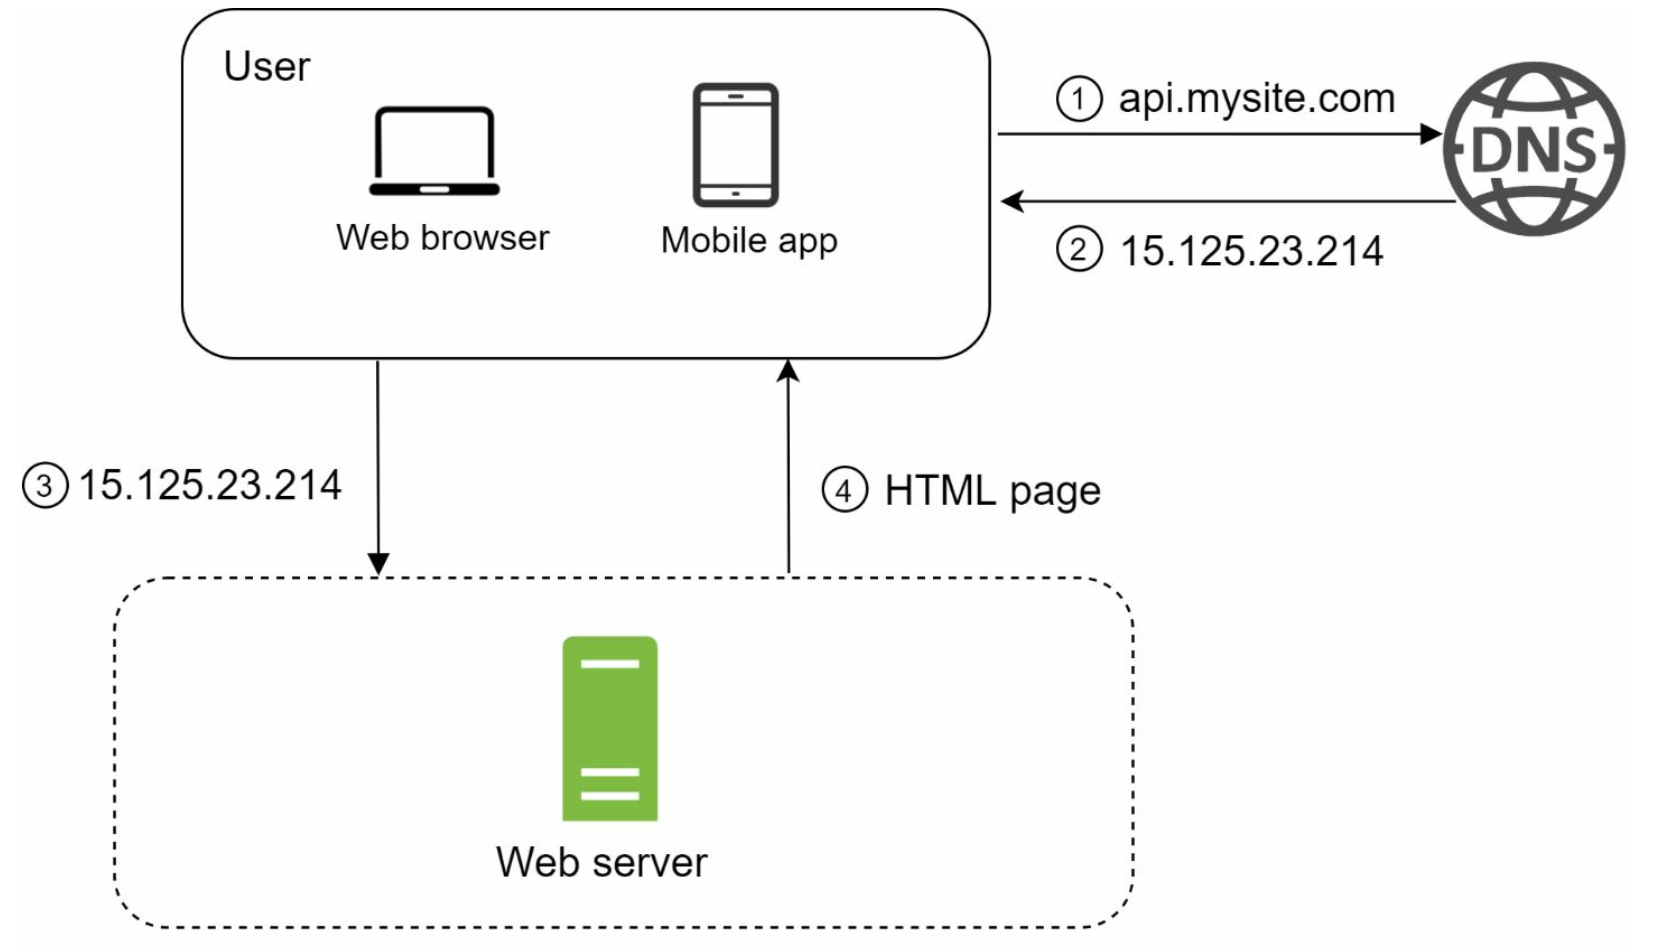
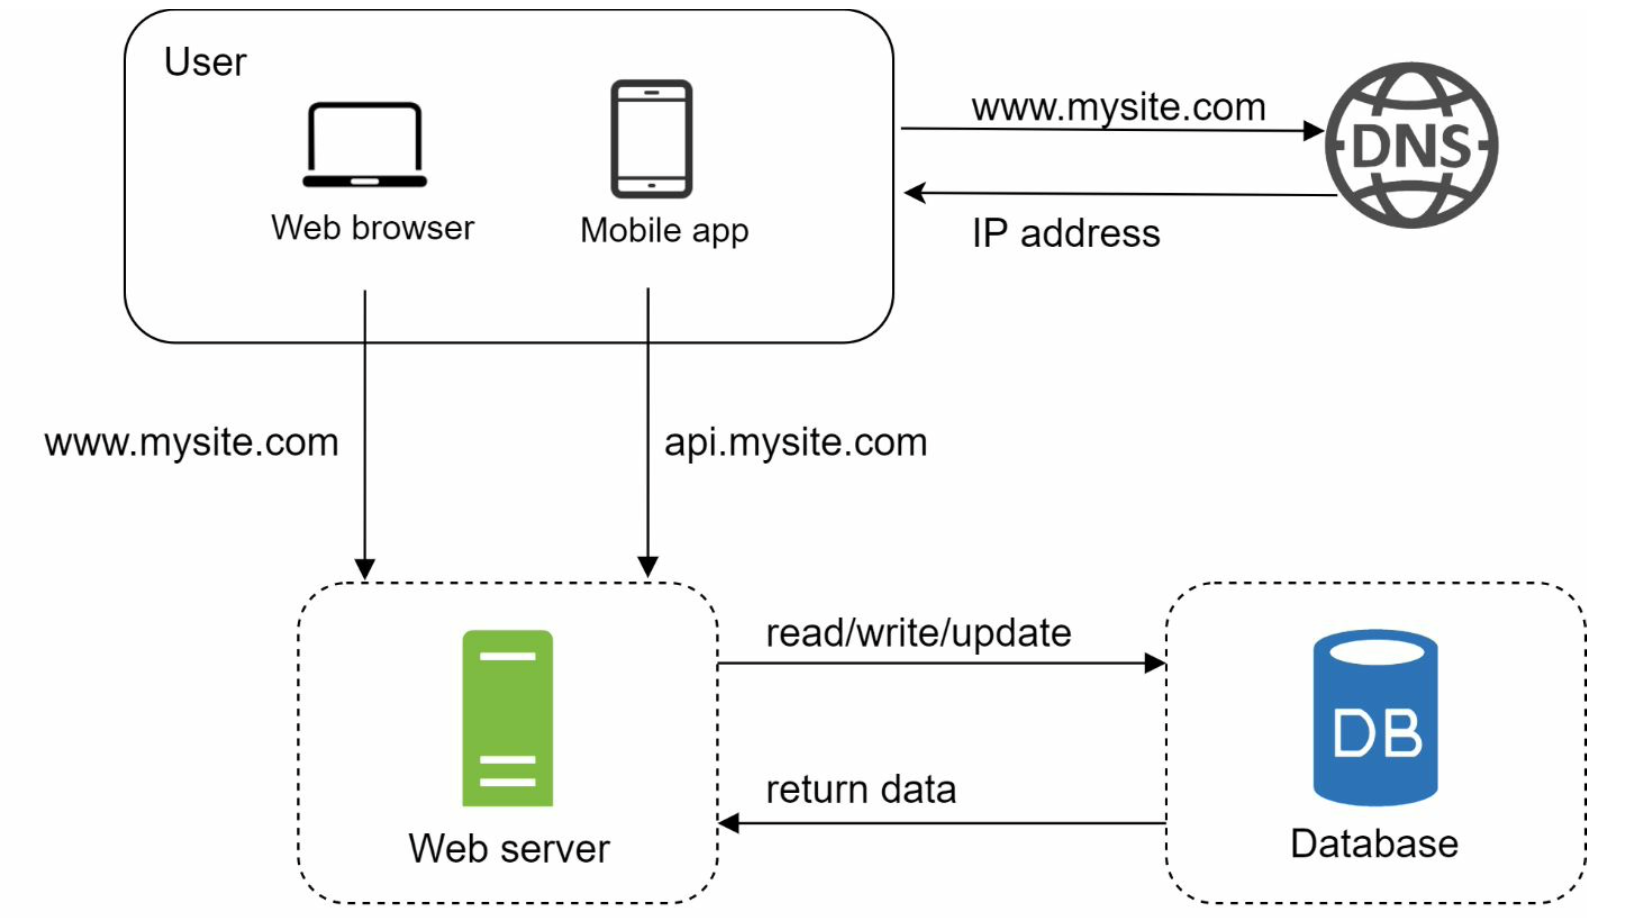
GITBOOK-28: change request with no subject merged in GitBook

diff --git a/cong-0-tuo-zhan-dao-shu-bai-wan-yong-hu.md b/cong-0-tuo-zhan-dao-shu-bai-wan-yong-hu.md
@@ -10,7 +10,7 @@
 
 探索请求流和流量源有助于帮助我们理解这些设置，我们首先观察请求流（图 1-2 ）。
 
-<figure><img src=".gitbook/assets/image (1).png" alt="" width="563"><figcaption><p>图 1-2</p></figcaption></figure>
+<figure><img src=".gitbook/assets/image (1) (1).png" alt="" width="563"><figcaption><p>图 1-2</p></figcaption></figure>
 
 1. 用户通过域名访问网站，如 <mark style="color:blue;">api.mysite.com</mark>。通常来说，域名系统（ DNS ）由第三方提供的付费服务，而不会由我们的服务器托管。
 2. 网络传输协议（ IP ）地址返回到浏览器或 mobile 应用。在本例中，被返回的 IP 地址是 15.125.23.214。
@@ -41,4 +41,10 @@
 </code></pre>
 
 ### 数据库
+
+随着用户基数的增长，一台服务器不足以支撑，我们需要多个服务器：一个用于处理 web / mobile 的流量，其他的则用于数据库（图 1-3）。将 web / mobile 流量（网络层）与数据库（数据层）的服务器分隔开有助于让它们独立拓展。
+
+<figure><img src=".gitbook/assets/image (1).png" alt="" width="563"><figcaption><p>图 1-3</p></figcaption></figure>
+
+### 如何选择数据库
 
